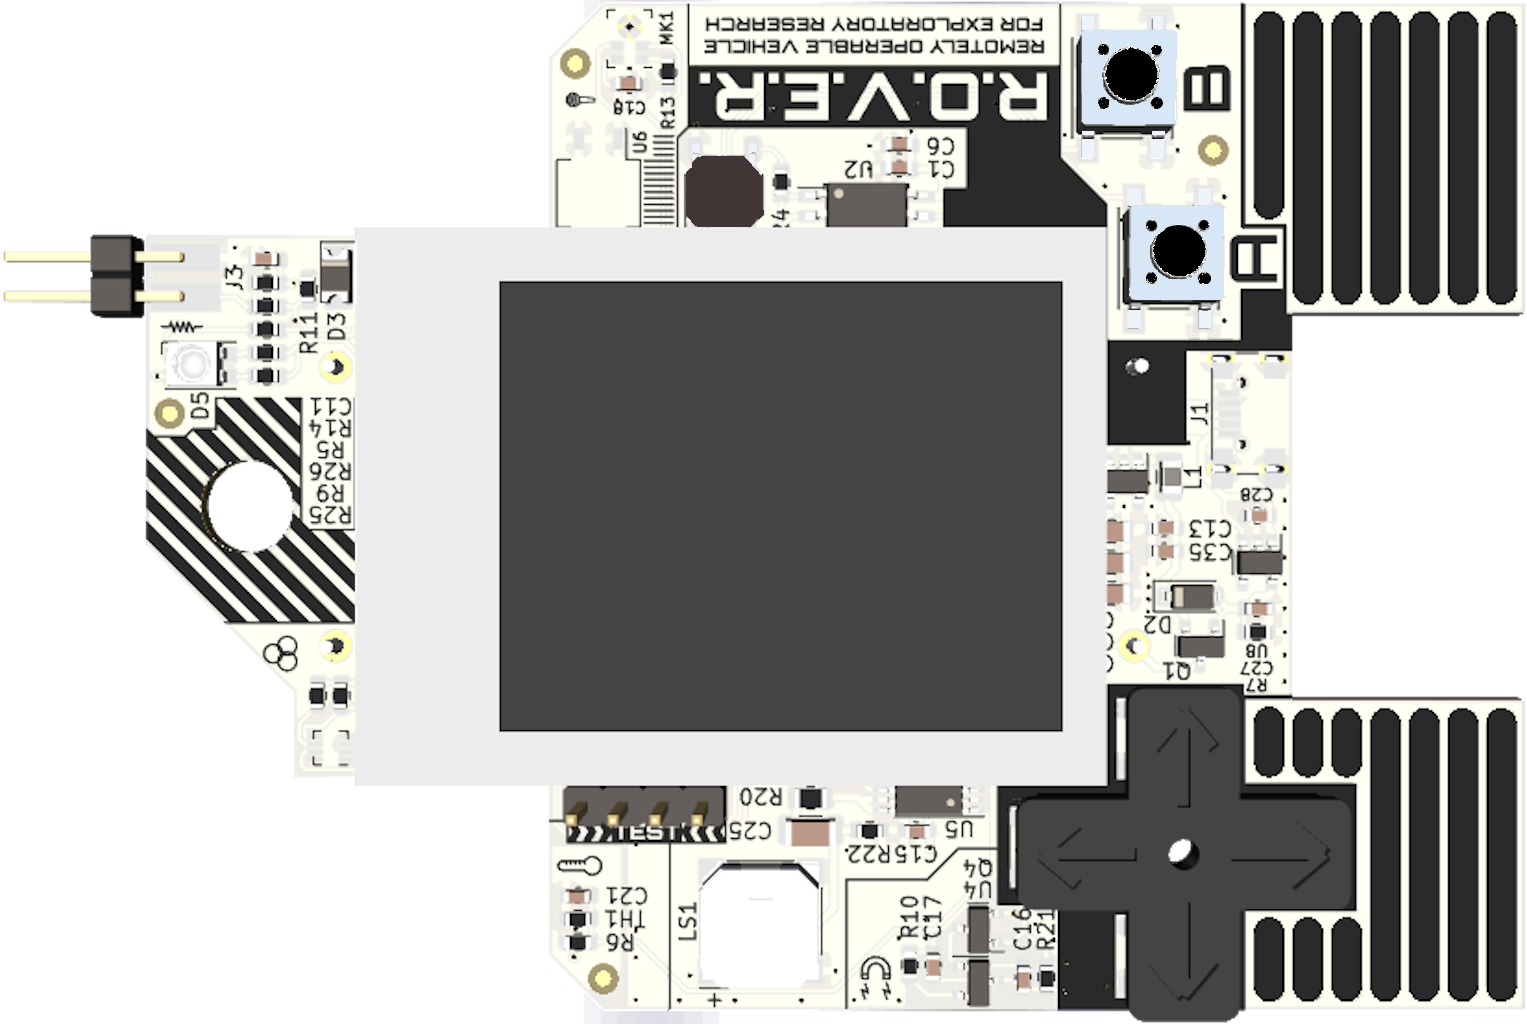
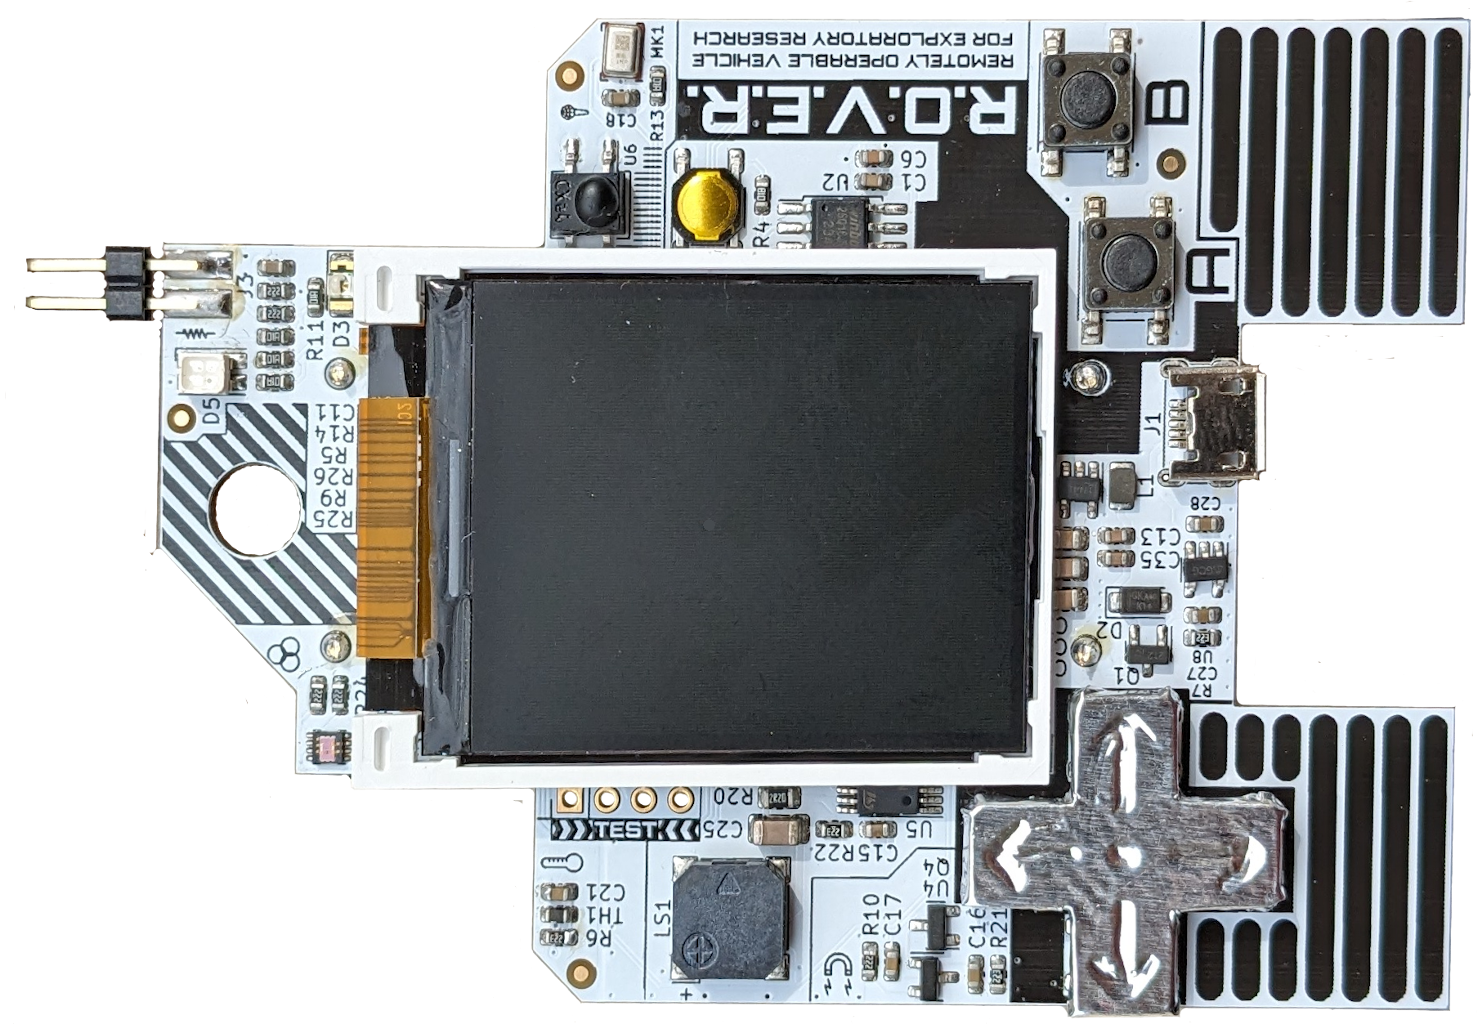
simulator: Update badge images

diff --git a/source/hal/button_coords.c b/source/hal/button_coords.c
@@ -3,33 +3,33 @@
 
 /* "Landscape" and "Portrait" here refer to the LCD screen, not the badge as a whole */
 #define PORTRAITXY(x, y) { ((float) (x) / 1024.0f), ((float) (y) / 1527.0f) }
-#define LANDSCAPEXY(x, y) { ((float) (x) / 1527.0f), ((float) (y) / 1024.0f) }
+#define LANDSCAPEXY(x, y) { ((float) (x) / 1478.0f), ((float) (y) / 1024.0f) }
 static const struct button_coord_list portrait_button_coords = {
-	.a_button = PORTRAITXY(768, 1176),
-	.b_button = PORTRAITXY(948, 1130),
+	.a_button = PORTRAITXY(758, 1130),
+	.b_button = PORTRAITXY(923, 1089),
 #if BADGE_HAS_ROTARY_SWITCHES
 	.left_rotary = PORTRAITXY(112, 96),
 	.right_rotary = PORTRAITXY(960, 88),
 #endif
-	.dpad_up = PORTRAITXY(168, 1072),
-	.dpad_down = PORTRAITXY(168, 1294),
-	.dpad_left = PORTRAITXY(50, 1186),
-	.dpad_right = PORTRAITXY(280, 1186),
-	.led = PORTRAITXY(660, 193),
+	.dpad_up = PORTRAITXY(166, 1015),
+	.dpad_down = PORTRAITXY(166, 1235),
+	.dpad_left = PORTRAITXY(45, 1125),
+	.dpad_right = PORTRAITXY(295, 1125),
+	.led = PORTRAITXY(648, 202),
 };
 
 static const struct button_coord_list landscape_button_coords = {
-	.a_button = LANDSCAPEXY(1182, 253),
-	.b_button = LANDSCAPEXY(1128, 75),
+	.a_button = LANDSCAPEXY(1130, 262),
+	.b_button = LANDSCAPEXY(1086, 96),
 #if BADGE_HAS_ROTARY_SWITCHES
 	.left_rotary = LANDSCAPEXY(91, 912),
 	.right_rotary = LANDSCAPEXY(84, 64),
 #endif
-	.dpad_right = LANDSCAPEXY(1186, 741),
-	.dpad_left = LANDSCAPEXY(1186, 963),
-	.dpad_up = LANDSCAPEXY(1059, 856),
-	.dpad_down = LANDSCAPEXY(1318, 856),
-	.led = LANDSCAPEXY(190, 361),
+	.dpad_right = LANDSCAPEXY(1128, 734),
+	.dpad_left = LANDSCAPEXY(1128, 964),
+	.dpad_up = LANDSCAPEXY(1004, 856),
+	.dpad_down = LANDSCAPEXY(1244, 856),
+	.led = LANDSCAPEXY(198, 374),
 };
 
 static struct button_coord_list current_button_coords;

diff --git a/source/hal/sim_lcd_params.c b/source/hal/sim_lcd_params.c
@@ -4,18 +4,18 @@
 
 static const struct lcd_to_circuit_board_relation landscape_lcd_mapping = {
 	/* corners of the screen inside the badge image */
-	.x1 = 499,
-	.y1 = 281,
-	.x2 = 1062,
-	.y2 = 731,
+	.x1 = 474,
+	.y1 = 283,
+	.x2 = 1023,
+	.y2 = 749,
 };
 
 static const struct lcd_to_circuit_board_relation portrait_lcd_mapping = {
 	/* corners of the screen inside the badge image */
-	.x1 = 292,
-	.y1 = 499,
-	.x2 = 742,
-	.y2 = 1062,
+	.x1 = 270,
+	.y1 = 472,
+	.x2 = 739,
+	.y2 = 1029,
 };
 
 static const struct sim_lcd_params initial_default_sim_lcd_params = {
